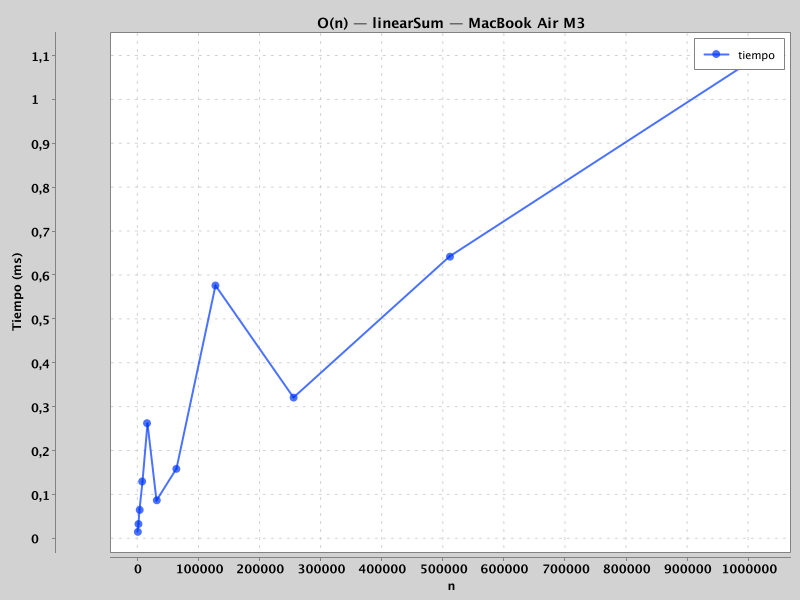
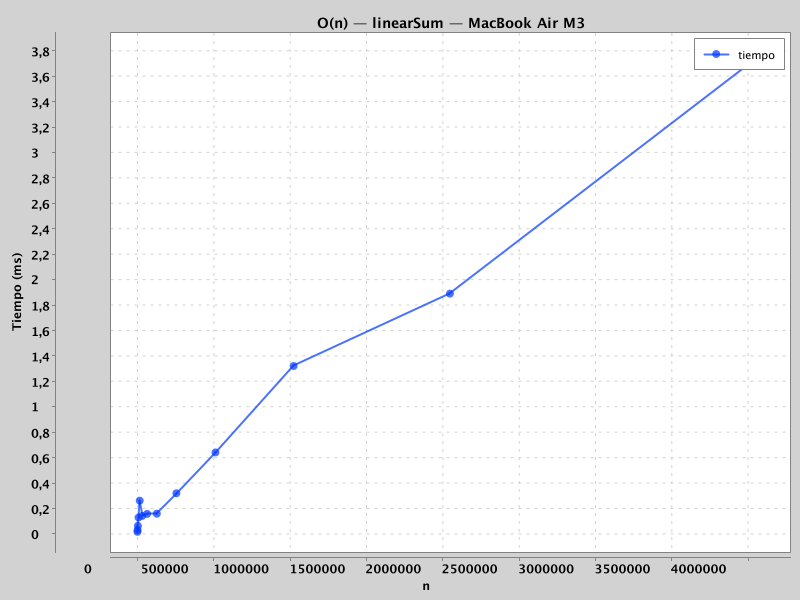
More n sizes and graphics

diff --git a/src/com/bigdata/complexity/bench/Main.java b/src/com/bigdata/complexity/bench/Main.java
@@ -11,7 +11,7 @@ import java.util.Arrays;
 public class Main {
 
     public static void main(String[] args) throws IOException {
-        int[] sizes = {1000, 2000, 4000, 8000, 16000, 32000, 64000, 128000, 256000, 512000, 1024000};
+        int[] sizes = {1000, 2000, 4000, 8000, 16000, 32000, 64000, 128000, 256000, 512000, 1024000, 2048000, 4096000};
 
         double[] xs = Arrays.stream(sizes).asDoubleStream().toArray();
         double[] yLogN  = new double[sizes.length];
